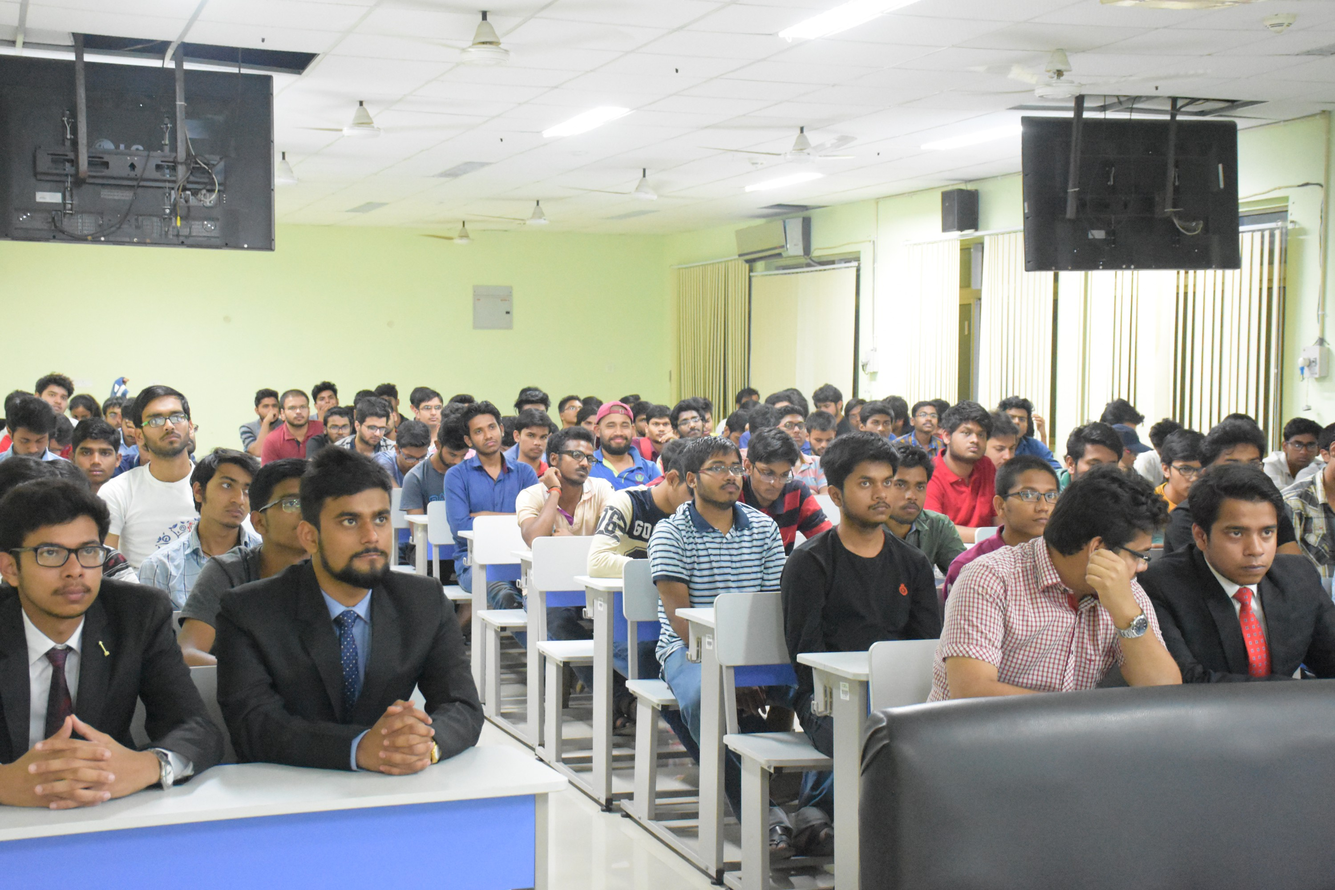
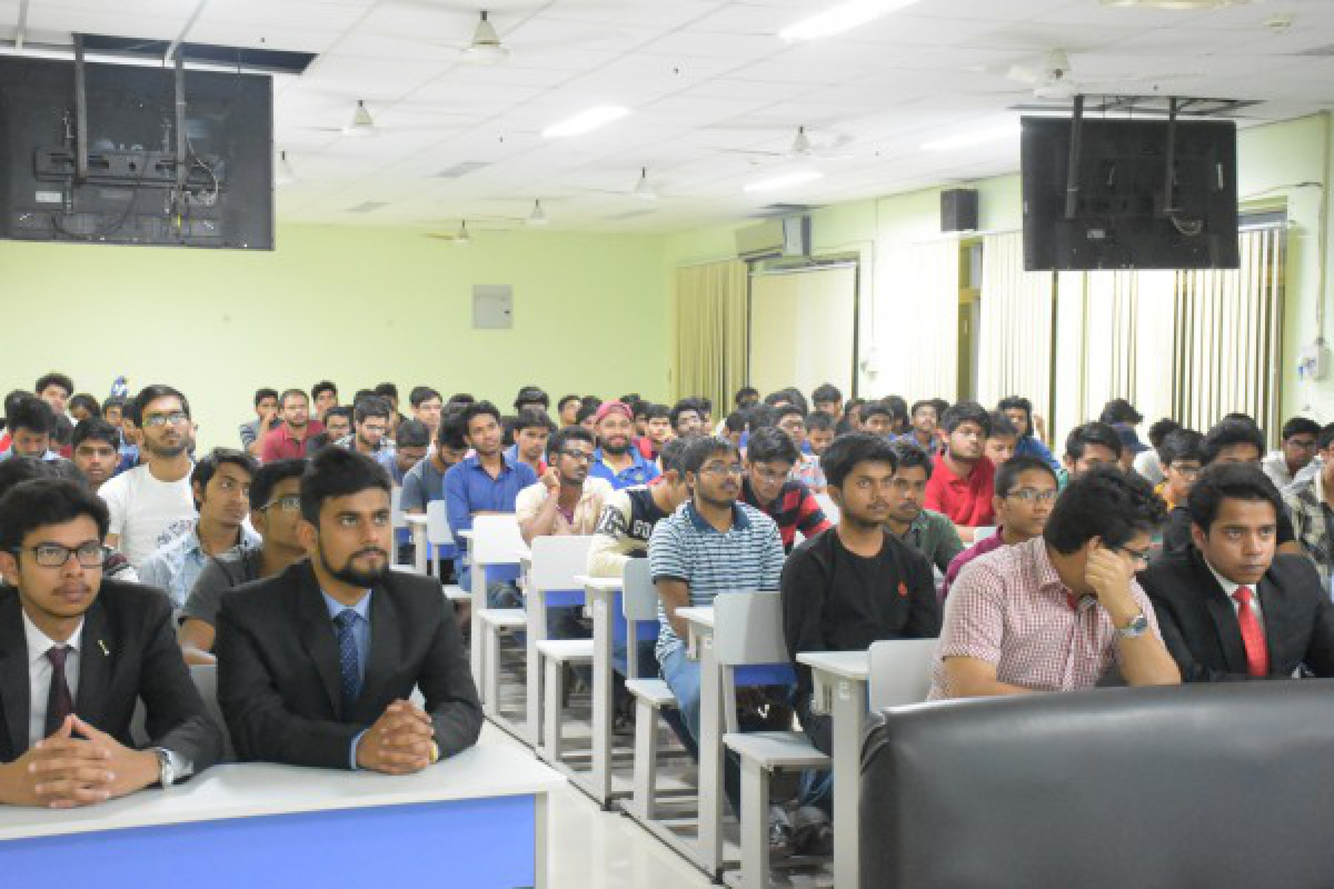
Commpressed images/eweek18_images/inaug1.jpg to images/eweek18_images/inaug1_comp.jpg and images/eweek18_images/rsz_joseph.jpg to images/eweek18_images/rsz_joseph_comp.jpg

diff --git a/index.php b/index.php
@@ -26,9 +26,9 @@
         <link href="css/bootstrap.min.css" rel="stylesheet">
         <link href="css/owl.carousel.css" rel="stylesheet">
         <link href="css/popuo-box.css" rel="stylesheet">
-         <link href="css/style.css" rel="stylesheet">
-         <link href="css/style.css" rel="stylesheet">
-         <link href="css/font-awesome.min1.css" rel="stylesheet">
+        <link href="css/style.css" rel="stylesheet">
+        <link href="css/style.css" rel="stylesheet">
+        <link href="css/font-awesome.min1.css" rel="stylesheet">
 
         <script src="js/custom.modernizr.js"></script>
         
@@ -133,7 +133,7 @@
 
             <div id="home-slider">
                 <div class="home-slider-item">
-                    <img src="images/eweek18_images/rsz_joseph.jpg" alt="Slide 1" />
+                    <img src="images/eweek18_images/rsz_joseph_comp.jpg" alt="Slide 1" />
                     <div class="slider-caption">
                         <h2 style="text-shadow: 1px 1px 2px white;">Joseph. P. Arackalan </h2>
                         <p style="text-shadow: 1px 1px 2px white;">
@@ -141,9 +141,8 @@
                         </p>
                     </div>
                 </div>
-                
                 <div class="home-slider-item">
-                    <img src="images/eweek18_images/inaug1.JPG" alt="Slide 2" />
+                    <img src="images/eweek18_images/inaug1_comp.jpg" alt="Slide 2" />
                     <div class="slider-caption">
                         <h2 style="text-shadow: 1px 1px 2px white;">E-Week'18 Inauguration Ceremony</h2>
                         <p style="text-shadow: 1px 1px 2px white;">
@@ -261,7 +260,7 @@
                 </div>
             </div>
             -->
-<div class="row" style="margin-top: 25px">
+            <div class="row" style="margin-top: 25px">
                     <div class="right-border row">
                         <div class="large-12 columns">
                             <div class="bottom-line">
@@ -302,7 +301,7 @@
                         <h3 align="center"> E-Week'18 Inauguration Ceremony </h3>
                         <h5 align="center"> 23rd March, 2018 </h5>
                     <div class="large-5 columns" style="float:left;max-height: 500px;overflow: hidden">
-                            <img  src="images/eweek18_images/joseph.JPG" alt=""   />
+                            <img  src="images/eweek18_images/joseph.jpg" alt=""   />
                             </div>
                     <p class="large-7 columns" >
                             E-Week'18 Inauguration Ceremony was carried out harmoniously on 23rd March. The occassion was made special by the honourable presence of Dr. Mayank Tiwari, Associate Professor - IIT Patna, Dr. Pramod Kumar Tiwari Assistant Professor - IIT Patna, Dr. Akhilendra Singh Associate Professor - IIT Patna, Dr. Sanjeev Kumar Assistant Professor - IIT Patna and Professor Incharge - Entrepreneurship Club IIT Patna, along with the E-Club Members under the lead of Mr. Piyush Agarwal. 
